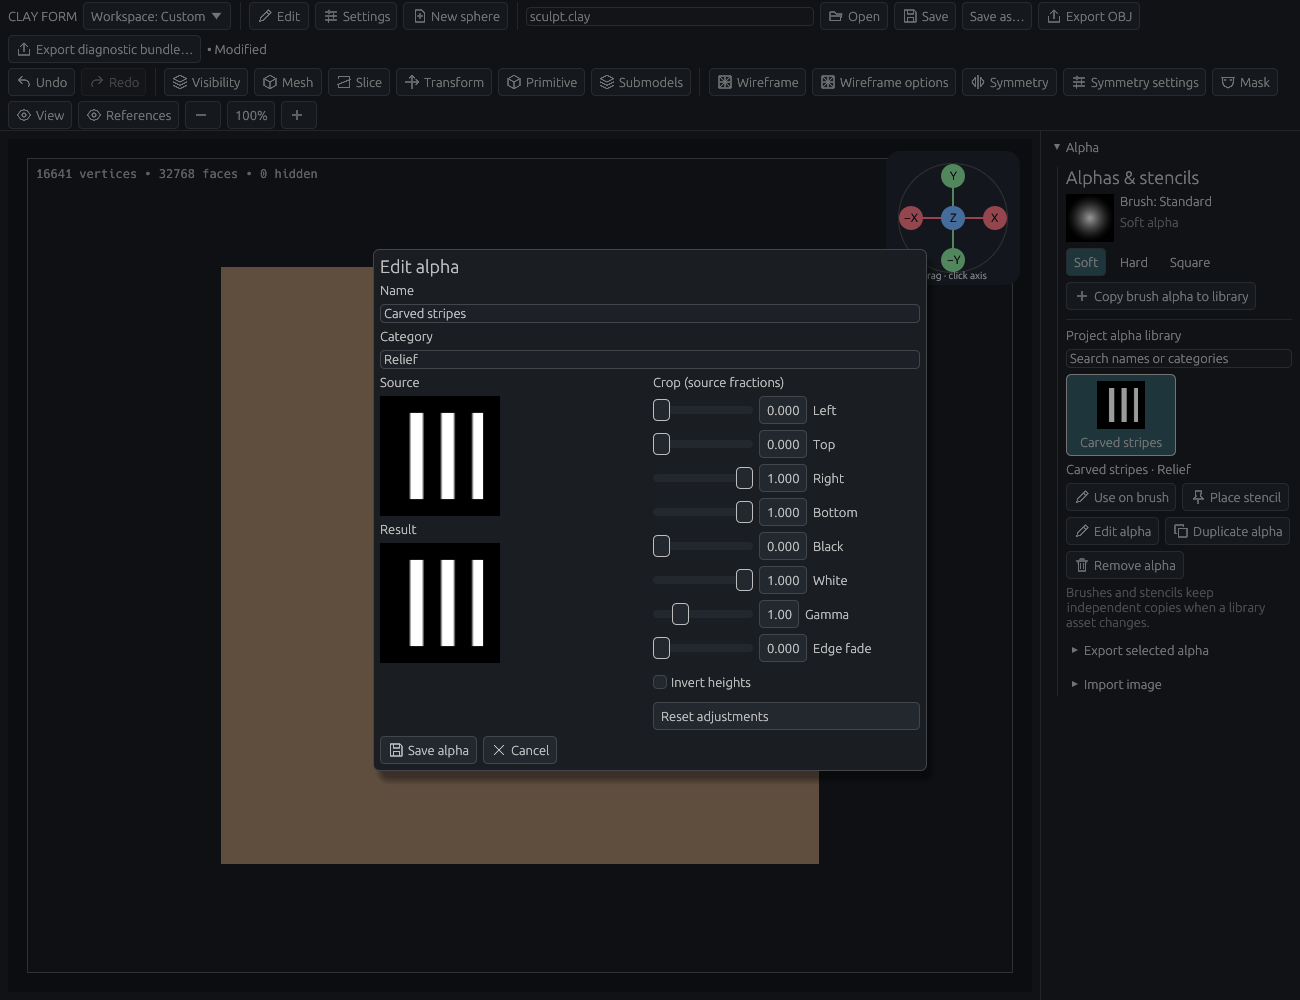
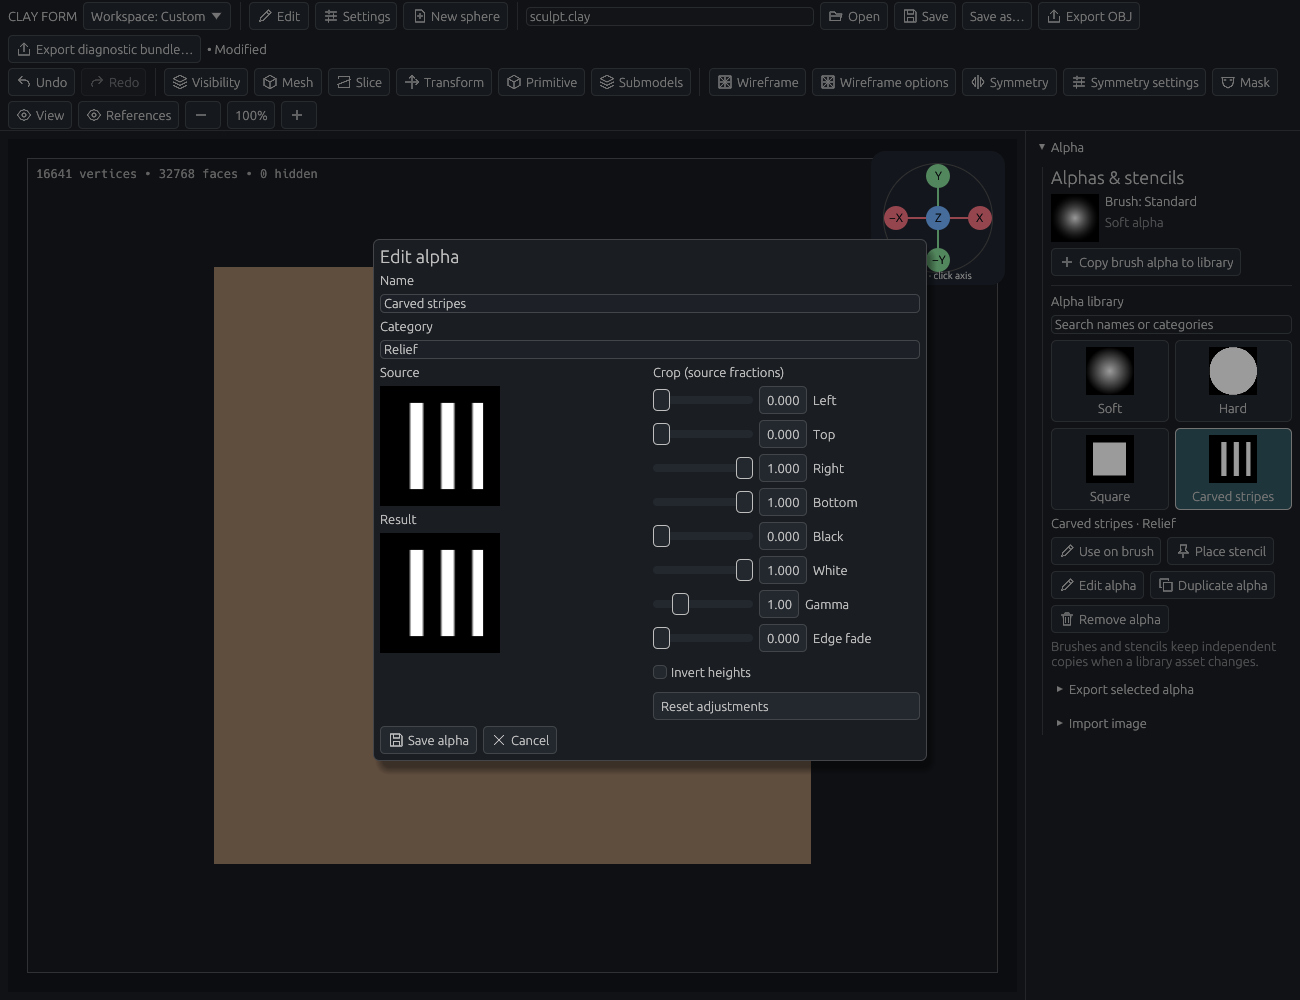
Include built-in alphas in library and clarify stencil removal

diff --git a/src/ui/alphas.rs b/src/ui/alphas.rs
@@ -5,6 +5,39 @@ use crate::sculpt::{
     alpha::{Adjustments, Asset, Stencil},
 };
 
+/// Built-ins are always available without adding assets to the saved project.
+#[derive(Clone, Copy, Debug, PartialEq, Eq)]
+pub(crate) enum Selection {
+    Soft,
+    Hard,
+    Square,
+    Project(usize),
+}
+impl Selection {
+    const BUILT_INS: [Self; 3] = [Self::Soft, Self::Hard, Self::Square];
+
+    fn project_index(self) -> Option<usize> {
+        match self {
+            Self::Project(index) => Some(index),
+            _ => None,
+        }
+    }
+
+    fn asset(self, document: &Document) -> Option<Asset> {
+        let (name, image) = match self {
+            Self::Soft => ("Soft", Alpha::Soft),
+            Self::Hard => ("Hard", Alpha::Hard),
+            Self::Square => ("Square", Alpha::Square),
+            Self::Project(index) => return document.alphas().get(index).cloned(),
+        };
+        Some(Asset {
+            name: name.into(),
+            category: "Built-in".into(),
+            image,
+        })
+    }
+}
+
 pub(crate) struct Draft {
     index: Option<usize>,
     asset: Asset,
@@ -12,7 +45,7 @@ pub(crate) struct Draft {
     preview: Result<Alpha, String>,
 }
 pub(crate) struct AlphaControls {
-    pub selected: Option<usize>,
+    pub selected: Option<Selection>,
     pub draft: Option<Draft>,
     pub export_path: String,
     pub overwrite: Option<(usize, String)>,
@@ -100,14 +133,6 @@ impl UiState {
                 ui.weak(match brush.alpha { Alpha::Soft => "Soft alpha", Alpha::Hard => "Hard alpha", Alpha::Square => "Square alpha", Alpha::Image { .. } => "Image alpha" });
             });
         });
-        ui.horizontal_wrapped(|ui| {
-            ui.selectable_value(&mut brush.alpha, Alpha::Soft, "Soft")
-                .customize(Action::AlphaSoft);
-            ui.selectable_value(&mut brush.alpha, Alpha::Hard, "Hard")
-                .customize(Action::AlphaHard);
-            ui.selectable_value(&mut brush.alpha, Alpha::Square, "Square")
-                .customize(Action::AlphaSquare);
-        });
         if ui
             .add(design::button(
                 ui,
@@ -127,7 +152,7 @@ impl UiState {
         }
         self.stencil_controls(ui, document, commands);
         ui.separator();
-        ui.label("Project alpha library");
+        ui.label("Alpha library");
         ui.add(
             egui::TextEdit::singleline(&mut self.alphas.search)
                 .hint_text("Search names or categories")
@@ -140,7 +165,11 @@ impl UiState {
             .spacing(Vec2::splat(6.))
             .show(ui, |ui| {
                 let mut count = 0;
-                for (i, asset) in document.alphas().iter().enumerate() {
+                for selection in Selection::BUILT_INS
+                    .into_iter()
+                    .chain((0..document.alphas().len()).map(Selection::Project))
+                {
+                    let asset = selection.asset(document).expect("existing library entry");
                     if !format!("{} {}", asset.name, asset.category)
                         .to_lowercase()
                         .contains(&query)
@@ -148,17 +177,22 @@ impl UiState {
                         continue;
                     }
                     let id = self.alphas.texture(ui.ctx(), &asset.image);
-                    if design::brush_tile(
+                    let response = design::brush_tile(
                         ui,
                         id,
                         &asset.name,
-                        self.alphas.selected == Some(i),
+                        self.alphas.selected == Some(selection),
                         width,
                     )
-                    .on_hover_text(&asset.category)
-                    .clicked()
-                    {
-                        self.alphas.selected = Some(i);
+                    .on_hover_text(&asset.category);
+                    let response = match selection {
+                        Selection::Soft => response.customize(Action::AlphaSoft),
+                        Selection::Hard => response.customize(Action::AlphaHard),
+                        Selection::Square => response.customize(Action::AlphaSquare),
+                        Selection::Project(_) => response,
+                    };
+                    if response.clicked() {
+                        self.alphas.selected = Some(selection);
                     }
                     count += 1;
                     if count % columns == 0 {
@@ -166,14 +200,12 @@ impl UiState {
                     }
                 }
             });
-        if document.alphas().is_empty() {
-            ui.weak("Import an image or copy a brush alpha to start.");
-        }
-        if let Some((i, asset)) = self
+        if let Some((selection, asset)) = self
             .alphas
             .selected
-            .and_then(|i| document.alphas().get(i).map(|a| (i, a)))
+            .and_then(|selection| selection.asset(document).map(|asset| (selection, asset)))
         {
+            let project_index = selection.project_index();
             ui.label(format!(
                 "{} · {}",
                 asset.name,
@@ -188,7 +220,11 @@ impl UiState {
                     .add(design::button(ui, Glyph::Edit, "Use on brush"))
                     .clicked()
                 {
-                    commands.push(Command::UseAlpha(i, selected));
+                    if let Some(i) = project_index {
+                        commands.push(Command::UseAlpha(i, selected));
+                    } else {
+                        brush.alpha = asset.image.clone();
+                    }
                 }
                 if ui
                     .add(design::button(ui, Glyph::Pin, "Place stencil"))
@@ -196,9 +232,10 @@ impl UiState {
                 {
                     commands.push(Command::SetStencil(Some(Stencil::new(asset.clone()))));
                 }
-                if ui
-                    .add(design::button(ui, Glyph::Edit, "Edit alpha"))
-                    .clicked()
+                if let Some(i) = project_index
+                    && ui
+                        .add(design::button(ui, Glyph::Edit, "Edit alpha"))
+                        .clicked()
                 {
                     self.alphas.edit(Some(i), asset.clone());
                 }
@@ -210,23 +247,32 @@ impl UiState {
                     copy.name = format!("{} copy", copy.name);
                     self.alphas.edit(None, copy);
                 }
-                if ui
-                    .add(design::button(ui, Glyph::Delete, "Remove alpha"))
-                    .clicked()
+                if let Some(i) = project_index
+                    && ui
+                        .add(design::button(ui, Glyph::Delete, "Remove alpha"))
+                        .clicked()
                 {
                     commands.push(Command::RemoveAlpha(i));
                 }
             });
-            ui.weak("Brushes and stencils keep independent copies when a library asset changes.");
-            ui.collapsing("Export selected alpha", |ui| {
-                ui.text_edit_singleline(&mut self.alphas.export_path);
-                if ui
-                    .add(design::button(ui, Glyph::Export, "Export PNG"))
-                    .clicked()
-                {
-                    commands.push(Command::ExportAlpha(i, false));
-                }
-            });
+            if project_index.is_none() {
+                ui.weak("Built-in alpha. Duplicate it to edit and save a variation.");
+            } else {
+                ui.weak(
+                    "Brushes and stencils keep independent copies when a library asset changes.",
+                );
+            }
+            if let Some(i) = project_index {
+                ui.collapsing("Export selected alpha", |ui| {
+                    ui.text_edit_singleline(&mut self.alphas.export_path);
+                    if ui
+                        .add(design::button(ui, Glyph::Export, "Export PNG"))
+                        .clicked()
+                    {
+                        commands.push(Command::ExportAlpha(i, false));
+                    }
+                });
+            }
         }
         ui.collapsing("Import image", |ui| {
             ui.label("Image path (PNG/JPEG, up to 2048 × 2048)");
@@ -251,8 +297,18 @@ impl UiState {
             ui.separator();
             ui.label(format!("Stencil: {}", original.asset.name));
             let mut stencil = original.clone();
-            ui.checkbox(&mut stencil.enabled, "Stencil enabled")
-                .customize(Action::ToggleStencil);
+            let mut remove = false;
+            ui.horizontal_wrapped(|ui| {
+                ui.checkbox(&mut stencil.enabled, "Stencil enabled")
+                    .customize(Action::ToggleStencil);
+                if ui
+                    .add(design::button(ui, Glyph::Close, "Remove stencil"))
+                    .customize(Action::RemoveStencil)
+                    .clicked()
+                {
+                    remove = true;
+                }
+            });
             ui.add(
                 egui::Label::new(if stencil.surface.is_some() {
                     "Surface plane · model units"
@@ -307,15 +363,10 @@ impl UiState {
             ui.collapsing("Stencil help", |ui| {
                 ui.weak("Brush through the stencil using Freehand, Line or stamps. Brush alpha, strength and pressure multiply its coverage. Symmetry copies the stencil. Topology stays fixed while stenciling. Grab, Snake and Detail require disabling the stencil.");
             });
-            if stencil != *original {
-                commands.push(Command::SetStencil(Some(stencil)));
-            }
-            if ui
-                .add(design::button(ui, Glyph::Close, "Remove stencil"))
-                .customize(Action::RemoveStencil)
-                .clicked()
-            {
+            if remove {
                 commands.push(Command::SetStencil(None));
+            } else if stencil != *original {
+                commands.push(Command::SetStencil(Some(stencil)));
             }
         }
     }

diff --git a/src/app/tests/guide_captures.rs b/src/app/tests/guide_captures.rs
@@ -1592,6 +1592,31 @@ fn alpha_library_stencil_offscreen_review() {
         .document
         .replace_geometry(Geometry::new(primitive.mesh().unwrap()))
         .unwrap();
+    // Built-ins also exist in projects with no saved library assets.
+    assert!(g.app.document.alphas().is_empty());
+    for (name, alpha) in [
+        ("Hard", Alpha::Hard),
+        ("Square", Alpha::Square),
+        ("Soft", Alpha::Soft),
+    ] {
+        g.app.document.mark_saved("alpha-builtins.clay");
+        let previous = g.app.document.brushes()[0].alpha.clone();
+        click_guide_label(&mut g, name);
+        assert_eq!(g.app.document.brushes()[0].alpha, previous);
+        assert!(!g.app.document.is_dirty());
+        click_guide_label(&mut g, "Use on brush");
+        assert_eq!(g.app.document.brushes()[0].alpha, alpha);
+        click_guide_label(&mut g, "Place stencil");
+        assert_eq!(g.app.document.stencil().unwrap().asset.image, alpha);
+        click_guide_label(&mut g, "Remove stencil");
+        assert!(g.app.document.stencil().is_none());
+    }
+    click_guide_label(&mut g, "Duplicate alpha");
+    assert!(g.app.ui.alphas.draft.is_some());
+    click_guide_label(&mut g, "Save alpha");
+    assert_eq!(g.app.document.alphas()[0].name, "Soft copy");
+    click_guide_label(&mut g, "Remove alpha");
+    assert!(g.app.document.alphas().is_empty());
     let image = Alpha::Image {
         width: 128,
         height: 128,
@@ -1614,7 +1639,7 @@ fn alpha_library_stencil_offscreen_review() {
         image,
     };
     g.app.document.save_alpha(None, asset.clone()).unwrap();
-    g.app.ui.alphas.selected = Some(0);
+    g.app.ui.alphas.selected = Some(crate::ui::alphas::Selection::Project(0));
     g.save("alpha-library");
     click_guide_label(&mut g, "Edit alpha");
     assert!(g.app.ui.alphas.draft.is_some());
@@ -1653,4 +1678,12 @@ fn alpha_library_stencil_offscreen_review() {
     g.app.camera.yaw = 0.45;
     g.app.camera.pitch = -0.25;
     g.save("alpha-surface-stencil");
+    let geometry = g.app.document.geometry_snapshot();
+    let alphas = g.app.document.alphas().to_vec();
+    let brush_alpha = g.app.document.brushes()[0].alpha.clone();
+    click_guide_label(&mut g, "Remove stencil");
+    assert!(g.app.document.stencil().is_none());
+    assert_eq!(g.app.document.geometry_snapshot(), geometry);
+    assert_eq!(g.app.document.alphas(), alphas);
+    assert_eq!(g.app.document.brushes()[0].alpha, brush_alpha);
 }

diff --git a/src/sculpt/alpha/tests.rs b/src/sculpt/alpha/tests.rs
@@ -262,3 +262,18 @@ fn alpha_black_stencil_creates_no_history_or_adaptive_topology_and_invalid_libra
     assert_eq!(d.alphas().len(), 64);
     assert!(!d.is_dirty());
 }
+
+#[test]
+fn builtin_alpha_samples_preserve_circle_and_square_shapes_when_baked() {
+    for (alpha, edge, corner) in [(Alpha::Hard, 1., 0.), (Alpha::Square, 0., 0.)] {
+        // The hard circle reaches beyond the square, but both exclude outer corners.
+        let baked = Adjustments::default().apply(&alpha).unwrap();
+        for image in [&alpha, &baked] {
+            assert_eq!(image.sample(0.5, 0.5), 1.);
+            assert_eq!(image.sample(0.9, 0.5), edge);
+            assert_eq!(image.sample(0.9, 0.9), corner);
+            assert_eq!(image.sample(0., 0.), 0.);
+            assert_eq!(image.sample(-0.1, 0.5), 0.);
+        }
+    }
+}

diff --git a/src/sculpt/alpha.rs b/src/sculpt/alpha.rs
@@ -44,7 +44,8 @@ impl Alpha {
                 (pixels[iy * width + ix] * (1. - tx) + pixels[iy * width + nx] * tx) * (1. - ty)
                     + (pixels[ny * width + ix] * (1. - tx) + pixels[ny * width + nx] * tx) * ty
             }
-            Self::Hard | Self::Square => 1.,
+            Self::Hard => f32::from((u * 2. - 1.).powi(2) + (v * 2. - 1.).powi(2) < 1.),
+            Self::Square => f32::from((u * 2. - 1.).abs().max((v * 2. - 1.).abs()) < 0.7),
             Self::Soft => (1. - ((u * 2. - 1.).powi(2) + (v * 2. - 1.).powi(2)).sqrt()).max(0.),
         }
     }

diff --git a/src/app/commands.rs b/src/app/commands.rs
@@ -928,7 +928,7 @@ impl App {
                 );
             }),
             Command::SaveAlpha(index, asset) => self.document.save_alpha(index, asset).map(|i| {
-                self.ui.alphas.selected = Some(i);
+                self.ui.alphas.selected = Some(crate::ui::alphas::Selection::Project(i));
                 self.ui.alphas.draft = None;
                 self.ui.status =
                     "Alpha saved in project library; choose Use on brush or Place stencil".into();

diff --git a/docs/guide/sculpting.md b/docs/guide/sculpting.md
@@ -59,7 +59,9 @@ Grab follows pointer movement; spacing does not affect it. Subtracting Smooth sh
 
 ### Choose an alpha
 
-An alpha shapes each dab. Choose **Soft**, **Hard**, or **Square**, or build a reusable image alpha in the **Alpha** panel.
+An alpha shapes each dab. Open the **Alpha** panel, select **Soft**, **Hard**, or **Square** in the **Alpha library**, then choose **Use on brush**. These built-ins are always available, including in older projects. You can also **Place stencil** with them or **Duplicate alpha** to edit a variation. Built-ins cannot be removed; saved copies can.
+
+![Soft, Hard and Square alongside an imported alpha in the library](../images/alpha-library.png)
 
 ### Create and reuse an image alpha
 
@@ -84,7 +86,7 @@ The project saves the library, categories, brush images, and stencil settings. L
 2. Set **Horizontal**, **Vertical**, **Width**, **Height**, and **Rotation** in the stencil controls. View-attached positions and sizes use fractions of the viewport's shorter side. Positive vertical moves up; positive rotation turns counterclockwise.
 3. Brush back and forth through the guide. White areas permit the brush, black areas and everything outside the rectangle protect the surface. Brush alpha, falloff, pressure, strength, existing masks, and hidden geometry still apply.
 4. Choose **Attach to surface…**, then click the model. Orbit to inspect it: the stencil now stays on that surface plane. Its position and size controls use model units. **Follow view** returns to a centered view stencil. Escape cancels attachment without painting.
-5. Set **Overlay opacity** to zero to inspect your result while continuing to stencil. Disable **Stencil enabled** to sculpt freely, or **Remove stencil** to clear it.
+5. Set **Overlay opacity** to zero to inspect your result while continuing to stencil. Disable **Stencil enabled** to sculpt freely, or choose **Remove stencil** beside that checkbox to clear it. Removing the stencil keeps the library alpha and existing sculpted strokes.
 
 ![Surface stencil stays on its plane as the camera orbits, with placement controls visible](../images/alpha-surface-stencil.png)
 

diff --git a/docs/images/README.md b/docs/images/README.md
@@ -24,7 +24,7 @@ See [Development](../development.md#update-guide-screenshots) for prerequisites 
 
 | Images | What they explain | Capture test |
 | --- | --- | --- |
-| `alpha-editor.png`, `alpha-surface-stencil.png` | [Reusable image alphas and a placed surface stencil](../guide/sculpting.md#create-and-reuse-an-image-alpha) | `alpha_library_stencil_offscreen_review` |
+| `alpha-library.png`, `alpha-editor.png`, `alpha-surface-stencil.png` | [Reusable image alphas and a placed surface stencil](../guide/sculpting.md#create-and-reuse-an-image-alpha) | `alpha_library_stencil_offscreen_review` |
 | `submodel-delete.png` | [Deleting a selected hidden reference submodel](../guide/modeling.md#delete-a-submodel) | `delete_submodel_offscreen_review` |
 | `detail-projection-preview.png` | [Reference-to-target detail transfer with match feedback before Apply](../guide/modeling.md#recover-detail-after-remeshing) | `detail_projection_offscreen_review` |
 | `modeling-separate-fuse-result.png` | [Nonadjacent faces fused into separate tunnels in one edit](../guide/modeling.md#construct-a-region) | `modeling_region_fuse_offscreen_review` |
